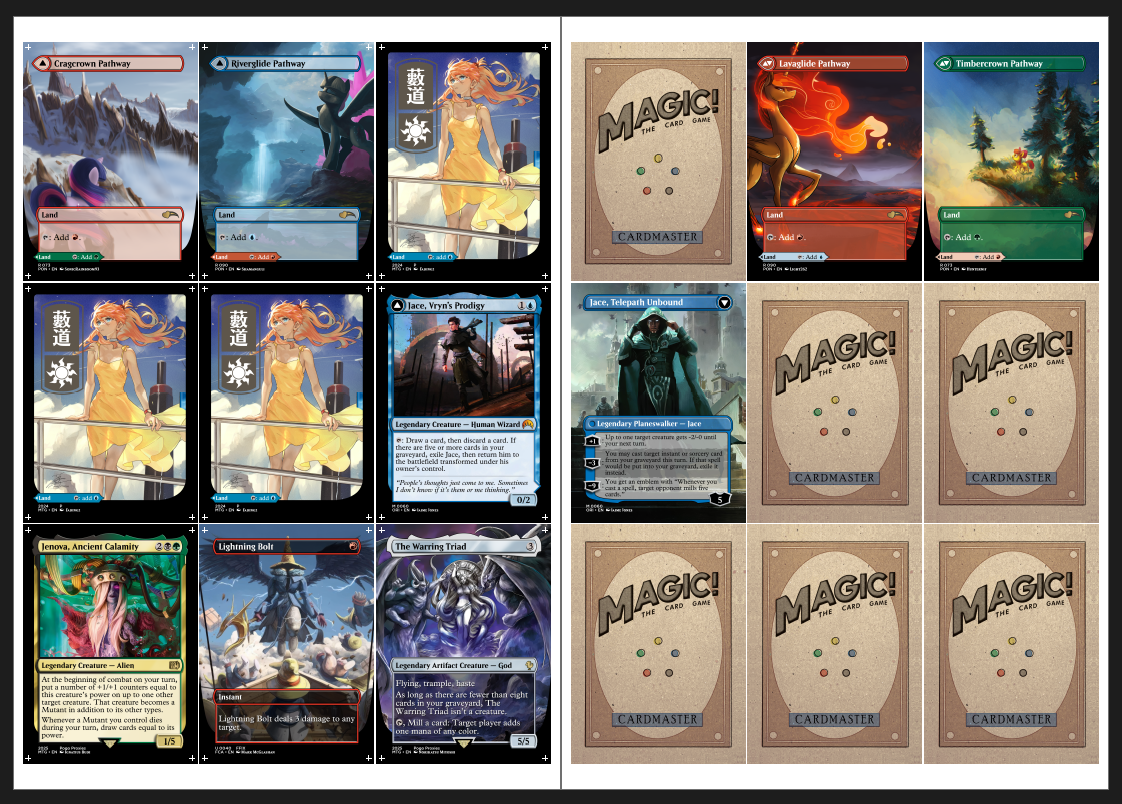
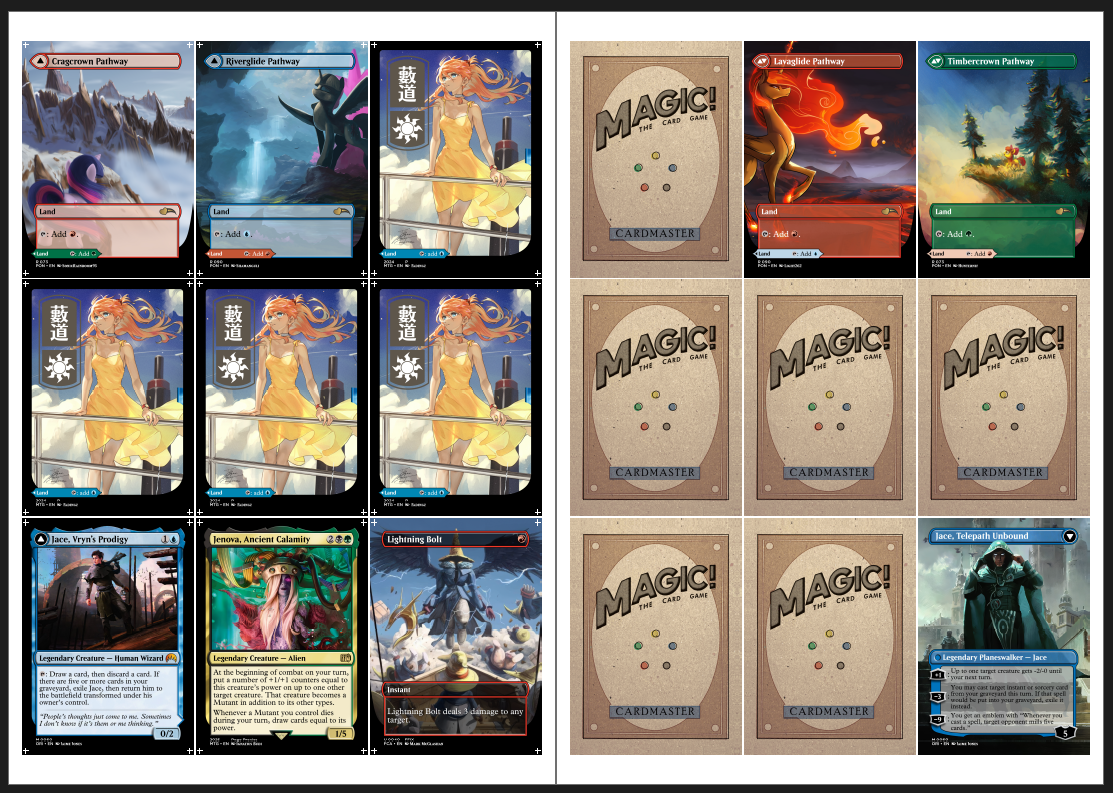
Update LiberProxies tutorial

diff --git a/tutorials/LiberProxies/README.md b/tutorials/LiberProxies/README.md
@@ -55,6 +55,8 @@ We will now go through all the settings to adjust them to exactly what LiberProx
 To start us off, expand the bottom section. Here we want to make sure to:
 - set `Units` to `mm`,
 - set `Rendering Backend` to either `LibHaru` or `PoDoFo`,
+- set `Image Format` to `Jpg`,
+- set `Jpg Quality` to `100`,
 - tick `Allow Precropped` (technically only necessary if you have images without 3mm Bleed Edge),
 - set `Color Cube` to `None` and
 - set `Max DPI` to `800`.
@@ -70,7 +72,7 @@ You can now collapse this section again.
 ### Card Options
 
 Extend this section and set the following options:
-- `Bleed Edge` to `2mm`,
+- `Bleed Edge` to `1.5mm`,
 - `Spacing` to `1mm`,
 - tick `Enable Backside` and
 - `Offset` to `0mm`.
